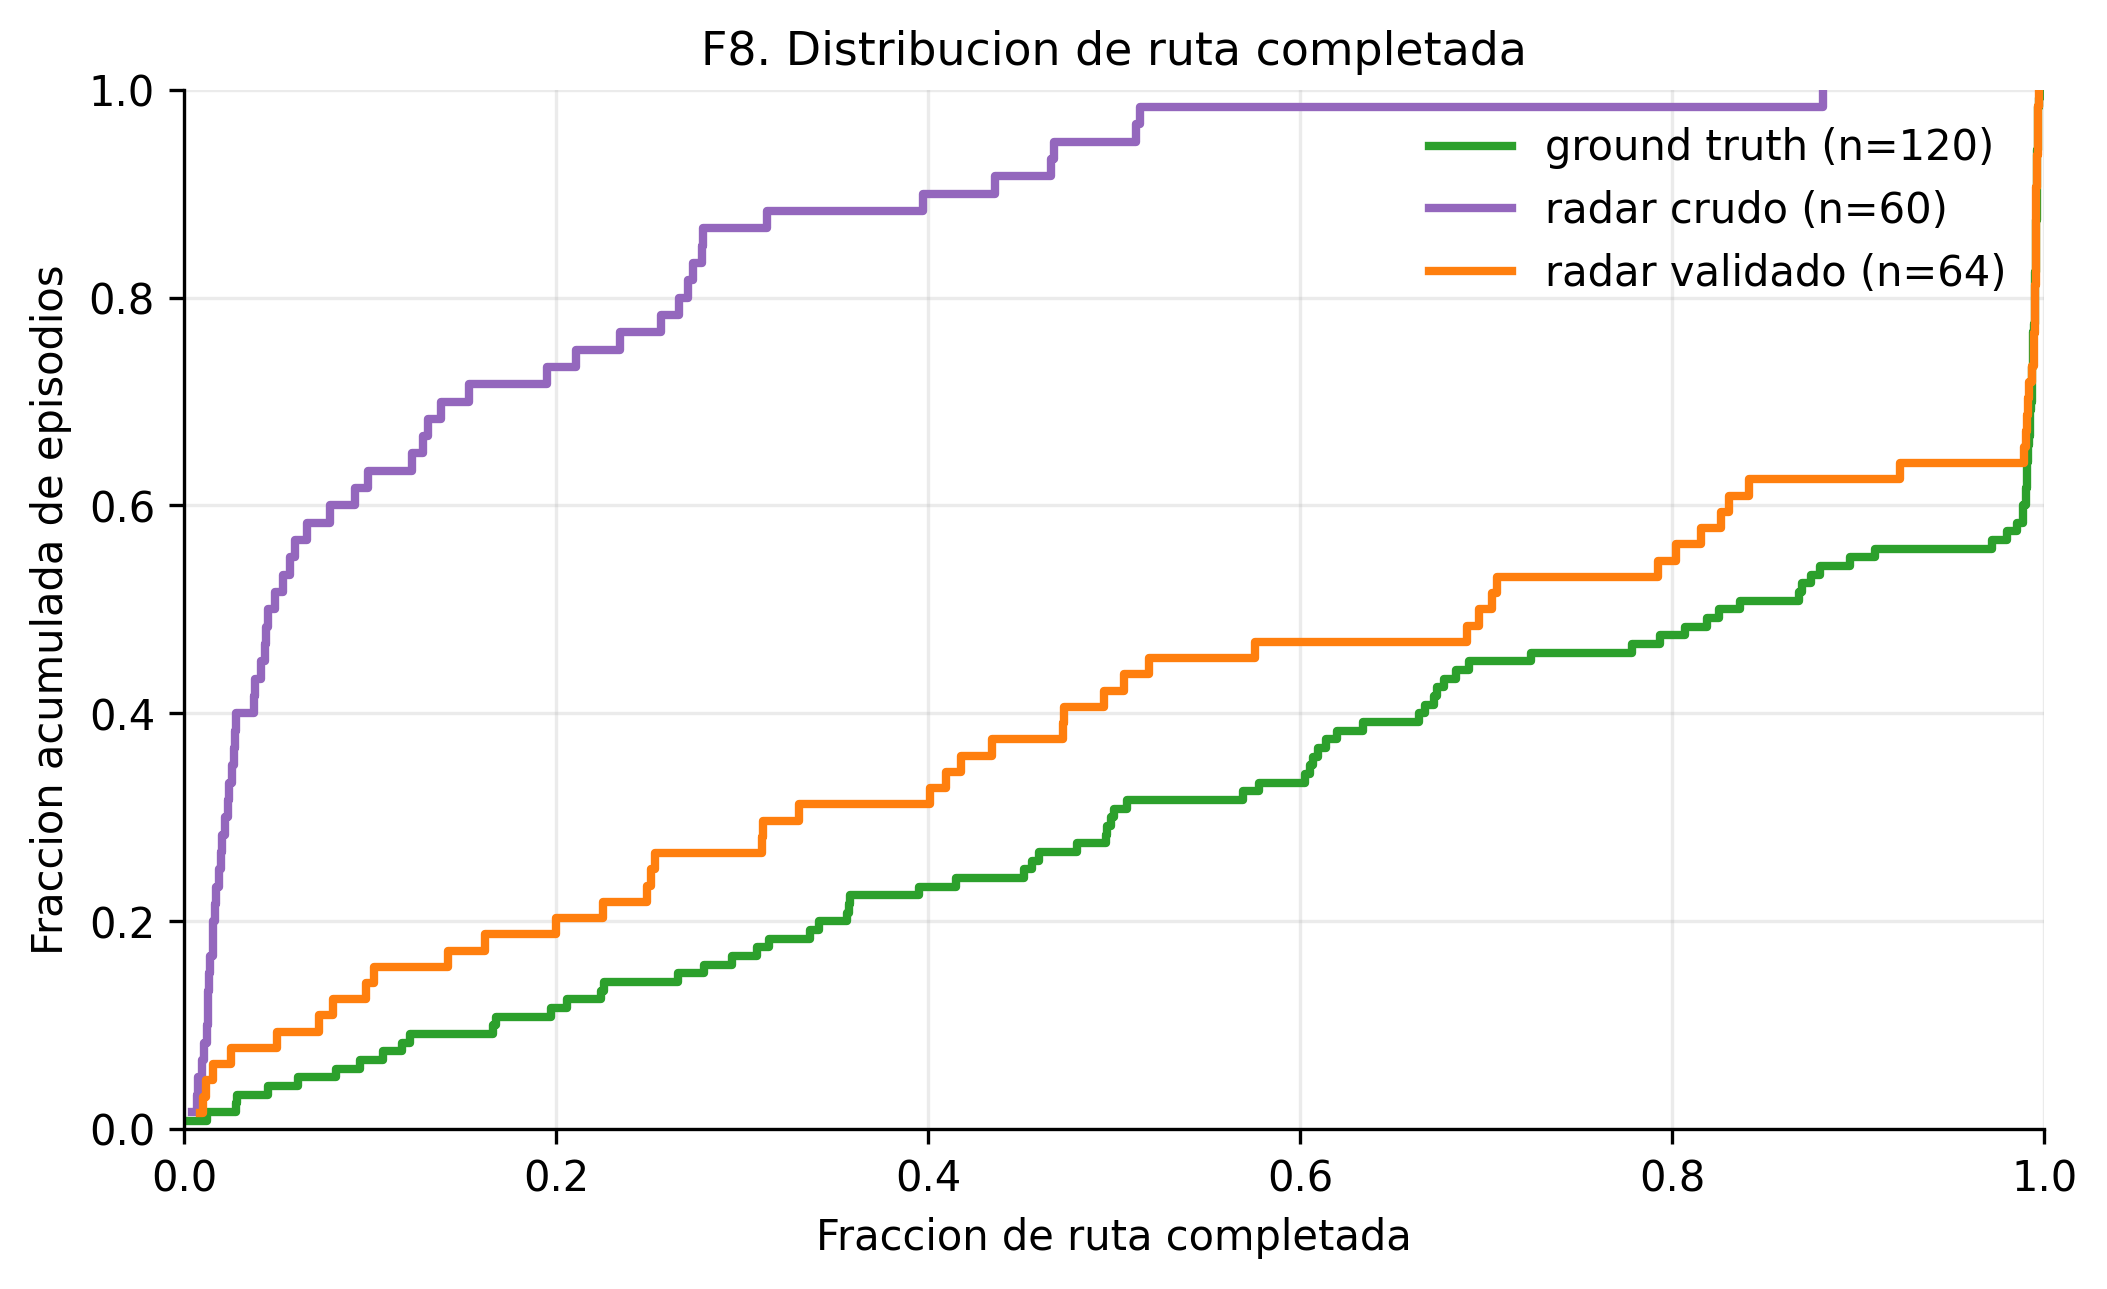
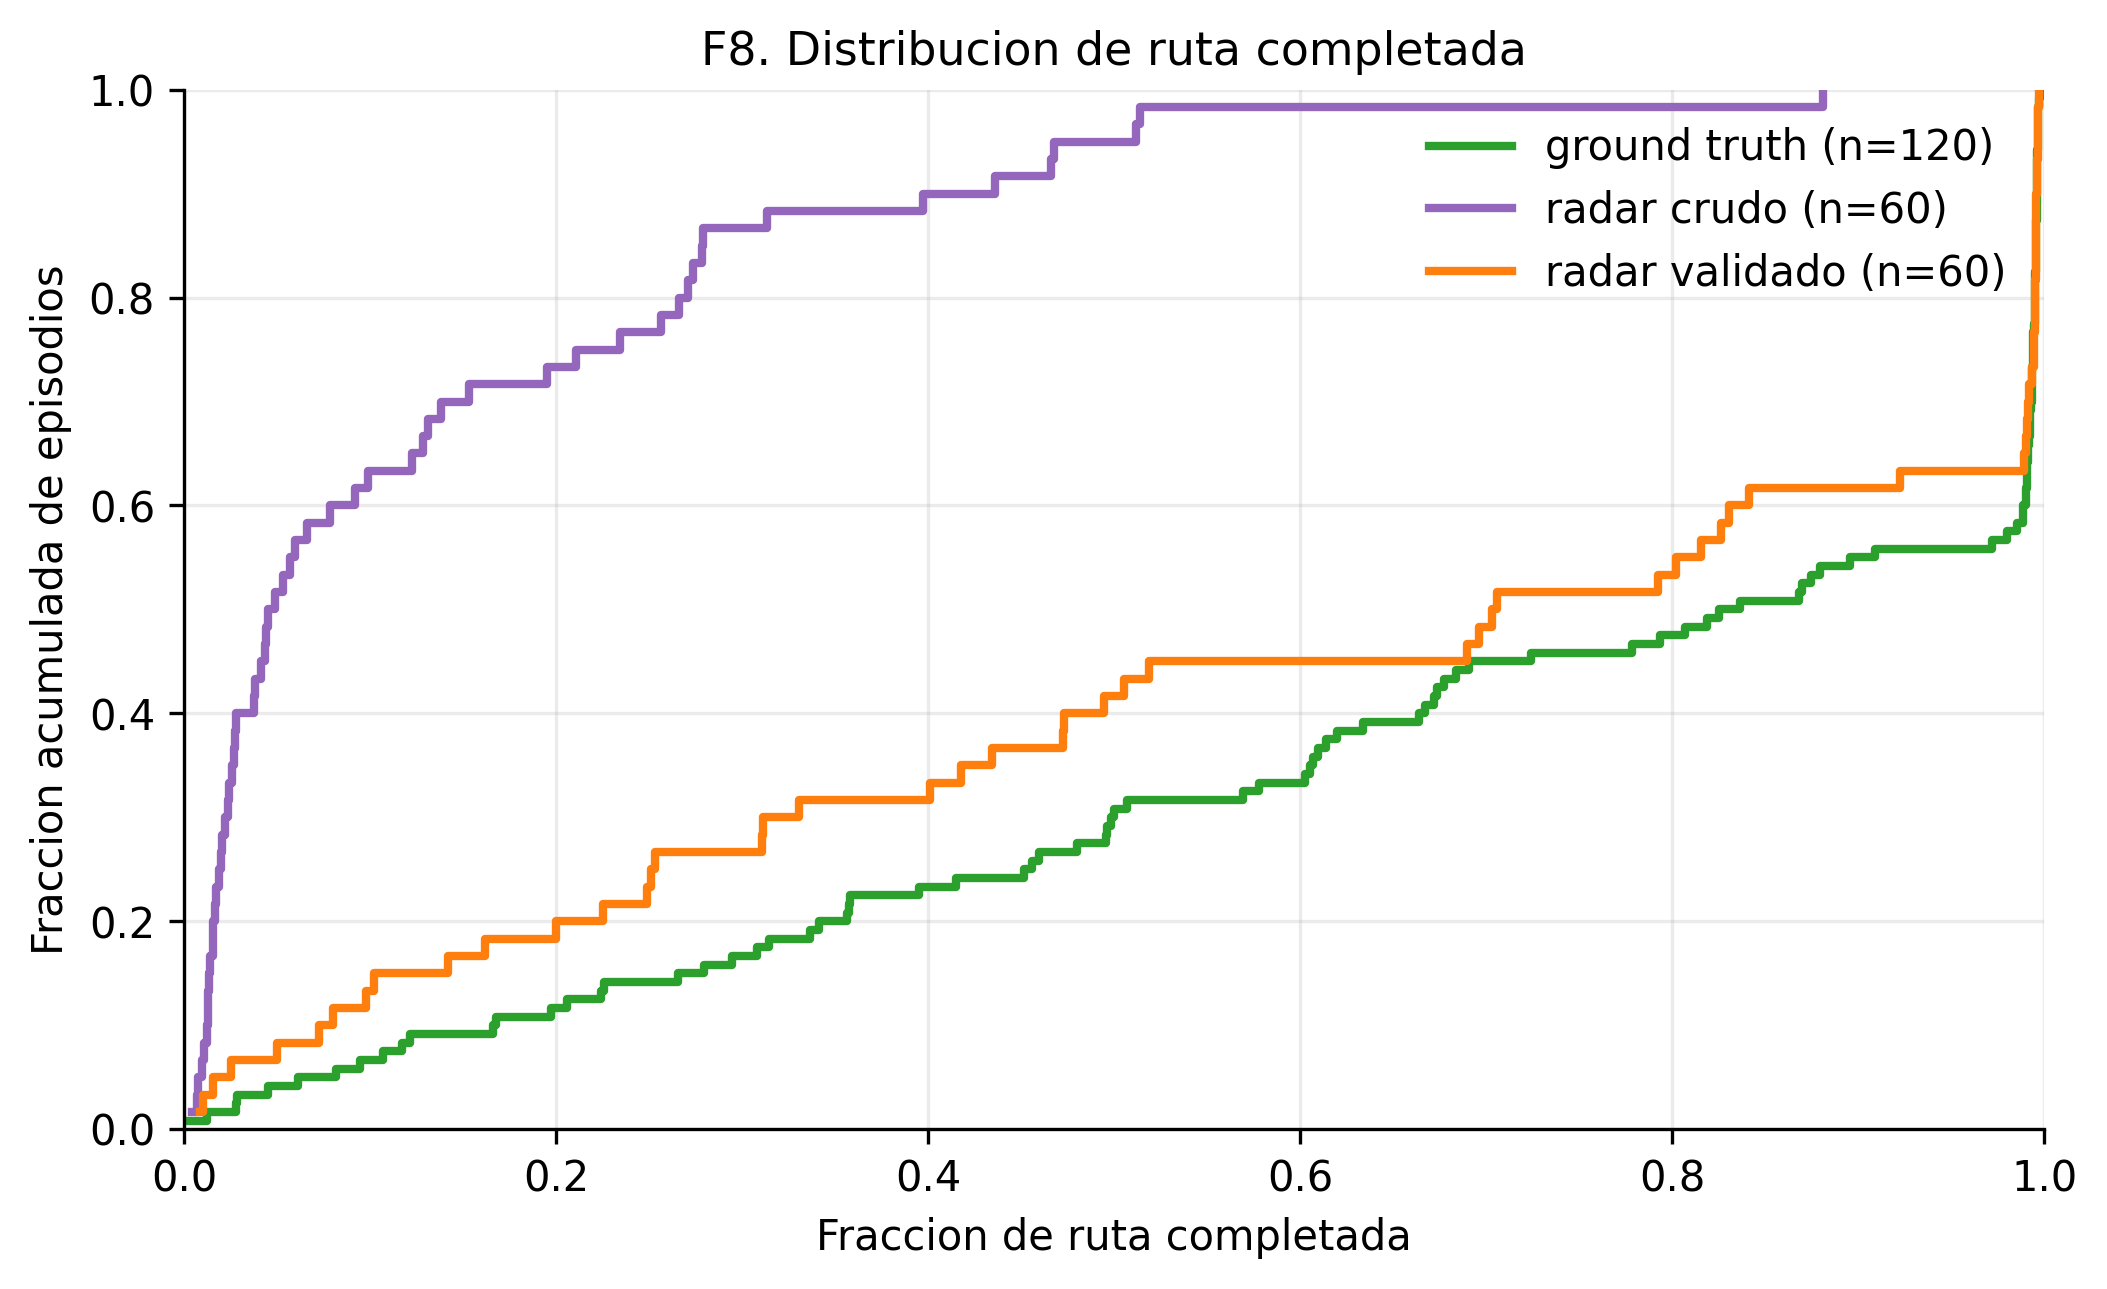
Result used at the memory

diff --git a/analysis/report_eval.py b/analysis/report_eval.py
@@ -338,6 +338,11 @@ def fig_depth(rad, fig_dir):
 def main():
     p = argparse.ArgumentParser(description="Informe de evaluacion para la memoria")
     add_common_args(p)
+    p.add_argument("--exclude-scenario", nargs="*",
+                   default=["smoke", "timing", "video", "test", "debug"],
+                   help="Escenarios de diagnostico que no forman parte de los "
+                        "resultados. Pasa --exclude-scenario sin valores para no "
+                        "descartar ninguno")
     p.add_argument("--ablation-scenario", default="traffic",
                    help="Escenario donde se compara la percepcion (por defecto traffic)")
     args = p.parse_args()
@@ -350,6 +355,16 @@ def main():
                   needed=EVAL_NEEDED, label="eval_episodes.csv")
     rad = load_csv(os.path.join(args.results_dir, "radar_detections.csv"),
                    needed=["row_type", "perception"], label="radar_detections.csv")
+
+    #fuera las tiradas de diagnostico, antes de calcular nada
+    for name, df in (("eval_episodes.csv", ev), ("radar_detections.csv", rad)):
+        if df is None or not args.exclude_scenario or "scenario" not in df.columns:
+            continue
+        drop = df["scenario"].isin(args.exclude_scenario)
+        if drop.any():
+            for sc, n in df.loc[drop, "scenario"].value_counts().items():
+                print(f"  [excl]   {name}: se descartan {n} filas de scenario={sc}")
+            df.drop(df.index[drop], inplace=True)
 
     if ev is not None:
         if "perception" not in ev.columns:

diff --git a/results/tables/t6_separabilidad_radar.tex b/results/tables/t6_separabilidad_radar.tex
@@ -4,9 +4,9 @@
     \toprule
     comparacion & n actor real & n estatico & AUC vel. radial & solapamiento & media vel. actor & media vel. estatico \\
     \midrule
-    actor real vs estatico & 6265 & 141460 & 0.531 & 0.807 & 2.659 & 2.496 \\
-    vehiculo vs estatico & 6183 & 141460 & 0.532 & 0.804 & 2.667 & 2.496 \\
-    peaton vs estatico & 82 & 141460 & 0.503 & 0.799 & 2.042 & 2.496 \\
+    actor real vs estatico & 6080 & 138380 & 0.535 & 0.804 & 2.632 & 2.406 \\
+    vehiculo vs estatico & 5998 & 138380 & 0.536 & 0.801 & 2.64 & 2.406 \\
+    peaton vs estatico & 82 & 138380 & 0.507 & 0.8 & 2.042 & 2.406 \\
     \bottomrule
   \end{tabular}
   \caption{Capacidad de un clasificador que solo disponga de la velocidad radial para distinguir actores reales de entorno estatico. AUC 0.5 significa indistinguibles; solapamiento 1.0 significa distribuciones identicas.}

diff --git a/results/tables/t7_separabilidad_por_condicion.tex b/results/tables/t7_separabilidad_por_condicion.tex
@@ -5,7 +5,7 @@
     condicion & n actor real & n estatico & AUC vel. radial & solapamiento & media vel. actor & media vel. estatico \\
     \midrule
     radar crudo & 2812 & 96016 & 0.645 & 0.707 & 2.017 & 0.578 \\
-    radar validado & 3453 & 45444 & 0.297 & 0.614 & 3.181 & 6.548 \\
+    radar validado & 3268 & 42364 & 0.293 & 0.606 & 3.161 & 6.549 \\
     \bottomrule
   \end{tabular}
   \caption{Separabilidad por velocidad radial calculada de forma independiente en cada condicion. La velocidad radial de un objeto estatico coincide con la del propio vehiculo, muy distinta entre condiciones, por lo que agregar ambas poblaciones cancela sus sesgos y produce un valor espurio.}

diff --git a/results/tables/t4_embudo_radar.tex b/results/tables/t4_embudo_radar.tex
@@ -5,7 +5,7 @@
     percepcion & ticks & detecciones/tick & clusters/tick & validados/tick & usados/tick & \% clusters validados \\
     \midrule
     radar crudo & 121210 & 42.8 & 16.25 & 0.46 & 6.98 & 2.8 \\
-    radar validado & 67272 & 55.9 & 14.44 & 1.04 & 0.74 & 7.2 \\
+    radar validado & 62772 & 55.8 & 14.46 & 1.05 & 0.75 & 7.3 \\
     \bottomrule
   \end{tabular}
   \caption{Embudo de procesamiento del radar por tick. El clustering agrupa las multiples reflexiones de un mismo objeto; la validacion contra ground truth descarta las que no corresponden a ningun actor. El porcentaje final indica cuanta de la senal cruda es entorno estatico.}
